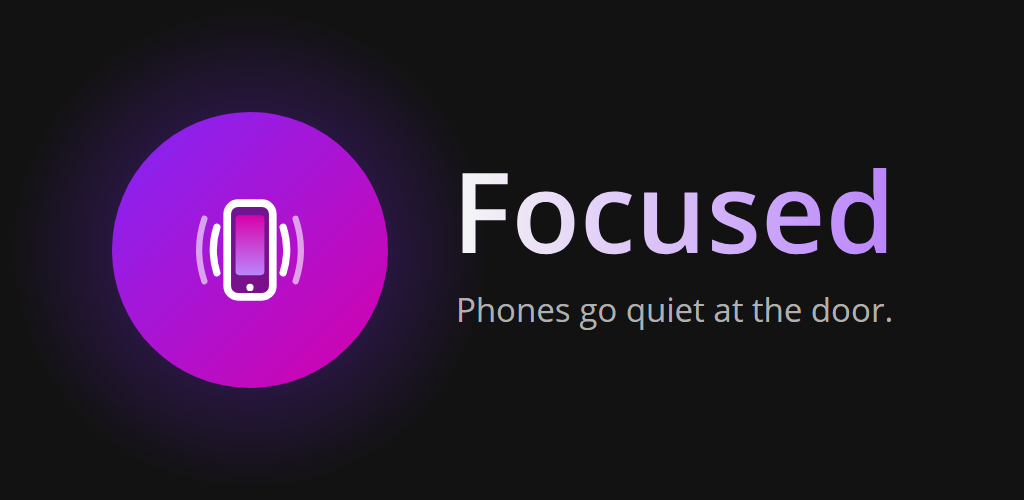
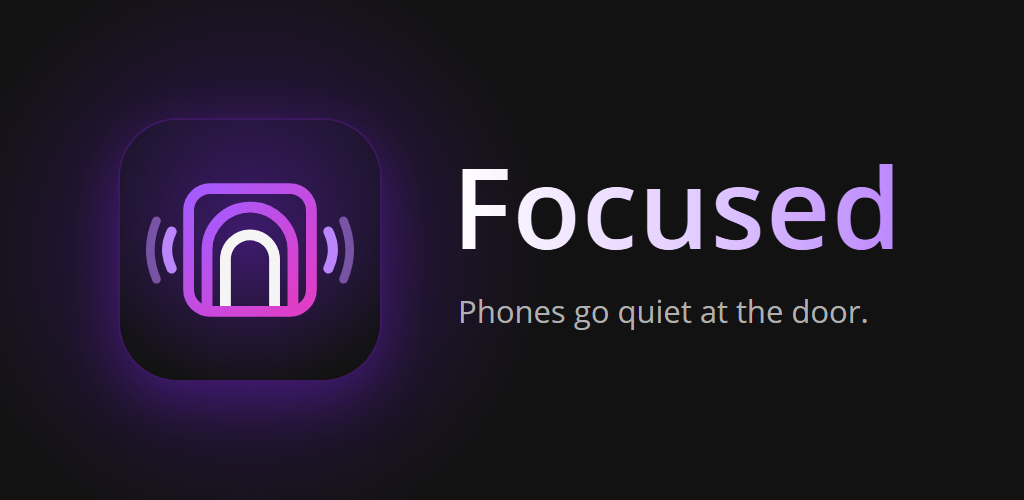
Add files via upload

diff --git a/shuls.html b/shuls.html
@@ -178,8 +178,11 @@
     <section class="wrap split ask" id="ask">
       <div class="split__main">
         <h2>Ask about Focused doors</h2>
-        <p>Tell us about your shul and we'll get back to you within 1 business day. Or write to
-          <strong>support@focusedplace.com</strong>.</p>
+        <p>Tell us about your shul and we'll get back to you within 1 business day. Or email us at
+          <strong>support@focusedplace.com</strong>.
+        </p>
+        <!-- The app icon, large, filling the space beside the form. Decorative. -->
+        <img class="ask__icon" src="img/logo-mark.svg" alt="" width="300" height="300">
       </div>
 
       <form class="form" id="shul-request" data-email="support@focusedplace.com"

diff --git a/css/style.css b/css/style.css
@@ -1411,6 +1411,24 @@ a.video:hover .video__play {
   line-height: 1.15;
 }
 
+/* The big app icon under the request text, filling the space beside the form on wide
+   screens. Hidden on narrow screens, where the form comes straight after the text. */
+.ask__icon {
+  display: block;
+  align-self: center;
+  width: min(300px, 70%);
+  height: auto;
+  margin-top: 40px;
+  border-radius: 22%;
+  box-shadow: 0 0 0 1px var(--plum-line), 0 28px 90px rgba(129, 38, 247, 0.35);
+}
+
+@media (max-width: 760px) {
+  .ask__icon {
+    display: none;
+  }
+}
+
 .form {
   flex: 1 1 520px;
   min-width: 0;

diff --git a/doors.html b/doors.html
@@ -92,7 +92,7 @@
         <a class="btn btn--light" href="shuls.html#ask">Get Focused doors</a>
       </div>
 
-      <p class="doors-note">Updated automatically from the Focused device list.</p>
+
     </div>
   </main>
 

diff --git a/README.md b/README.md
@@ -1,0 +1,50 @@
+# Focused website
+
+Plain HTML, CSS and JavaScript. No build step: open `index.html` in a browser to see it.
+
+| File | What it is |
+|---|---|
+| `index.html` | Home page |
+| `shuls.html` | For shuls: the door devices, setup, pricing and the request form |
+| `404.html` | Shown by GitHub Pages for an address that doesn't exist |
+| `css/style.css` | All the styles. The colours come from the app's `Colors.xaml` |
+| `js/main.js` | The phone menu, the footer year and the request form |
+| `img/` | Logo, browser-tab icon, app icon, and the image shown when the link is shared |
+
+## Placeholders to fill in
+
+Search the files for `[` to find them all.
+
+| Placeholder | Where | What to put |
+|---|---|---|
+| `[YOUR-DOMAIN]` | Both pages (top of the file, footer), `shuls.html` form | Your domain, e.g. `getfocused.app`. Also used in the emails `support@` and `shuls@` |
+| `[TESTER-GROUP-LINK]` | `index.html`, "Join the tester group" button | The Google Group or Play Console "Join on the web" link |
+| `[BATTERY ANSWER]` | `index.html`, battery question | A sentence from your own battery testing |
+| `[PRICE PER ENTRANCE]` | `shuls.html`, twice | Price for one entrance (inside + outside device) |
+| `[PRICE PER EXTRA ENTRANCE]` | `shuls.html` | Price for an extra outside device |
+| `[BATTERY LIFE]` | `shuls.html` | How long the batteries last |
+| `[EVERY N MONTHS]` | `shuls.html` | How often batteries are replaced |
+| `[WHO REPLACES THEM, AND WHAT IT COSTS]` | `shuls.html` | Who changes the batteries and the cost |
+| `[N]` | `shuls.html`, "get back to you within [N] days" | Your reply time |
+
+## The request form
+
+GitHub Pages can't receive a form. Until you set up a form service, "Send request" opens the visitor's email app with the request filled in, addressed to `shuls@[YOUR-DOMAIN]`.
+
+To receive requests directly instead: make a free form at formspree.io, copy its address (`https://formspree.io/f/...`) and paste it into `data-endpoint=""` on the `<form>` in `shuls.html`.
+
+## Putting it online (GitHub Pages)
+
+1. Create a **new** GitHub repository for the site (e.g. `focused-website`). Don't use the app's repository: free GitHub Pages needs the repository to be public.
+2. Upload everything in this folder to it.
+3. Repository → Settings → Pages → Source: **Deploy from a branch**, branch `main`, folder `/ (root)`.
+4. Same page, **Custom domain**: type your domain and save. GitHub adds a `CNAME` file.
+5. At your domain registrar, add the DNS records GitHub shows on that page. When the check passes, tick **Enforce HTTPS**.
+
+Leave the `focused-privacy` repository alone: every installed copy of the app downloads `access.json` and `devices.json` from it, and Play Console links to the privacy policy there.
+
+## Before it goes public
+
+- **File the provisional patent first.** The "How it works" section describes the two door devices.
+- **Update the privacy policy** so it says location is sent to the shul directory. The site links to it.
+- **After Google Play approves production**, change "Join the test" to Google's official "Get it on Google Play" badge, linking to `https://play.google.com/store/apps/details?id=com.joshgrosinger.focused`.
